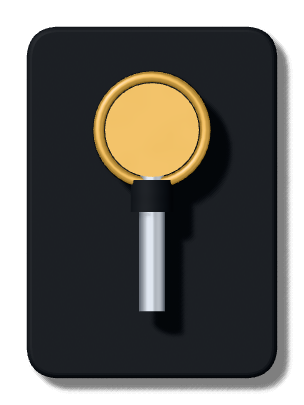
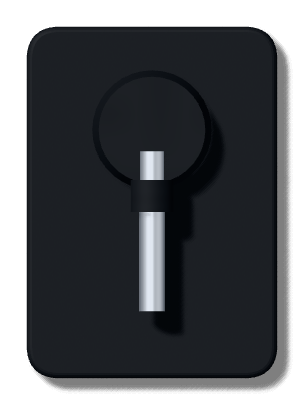
New Game registry: the owner's corrections and the seal
The line under the company colour is gone. The grade's words print only
their deposits part while every tile is surveyed. Pressing Start New Game
carries the die (now its own layer) to the seal circle over 2.5 s and
stamps the form, the impression staying, then the menu fades to the
loading screen over 2 s on the DS2 path; headless runs and tests skip the
sequence. Captures in artifacts/new_game_ds2/ds2_v2.

Changed region(s): [[0.2961, 0.1778, 0.7105, 0.4741], [0.6809, 0.4444, 0.7105, 0.4741]]

diff --git a/price-of-everything-0.1/tools/button_mockup/cluster.html b/price-of-everything-0.1/tools/button_mockup/cluster.html
@@ -8302,19 +8302,24 @@ async function exportLayers() {
         }); }
     });
 
-    // The company seal: the cast iron press, its brass die and chrome lever, without the key (the game sets the
-    // kit's cream key at the lever's end, printed Start New Game).
+    // The company seal: the cast iron press, its anvil and chrome lever, without the key (the game sets the kit's
+    // cream key at the lever's end, printed Start New Game) and without the die, which is its own layer so the game
+    // can carry it to the form's seal circle and bring it down when the game starts.
     if (want('registrypress')) await withSeed(496, async () => {
       const { W, H, M, r } = REG.PRESS, cx = M + W / 2, dz = M + 92, IT = 10 + 12;
       await part('registry_press', W, H, M, () => {
         add(shade(new THREE.Mesh(extrude(rrShape(W, H, r), 10, 6, 5, 4), [iron, iron])), cx, M + H / 2, 0);
         add(shade(new THREE.Mesh(new THREE.CylinderGeometry(50, 56, 30, 36), iron)), cx, dz, IT + 15);
-        add(shade(new THREE.Mesh(new THREE.TorusGeometry(50, 5, 12, 40).rotateX(Math.PI / 2), K.brass)), cx, dz, IT + 31);
-        add(shade(new THREE.Mesh(new THREE.CylinderGeometry(44, 44, 8, 36), K.brass)), cx, dz, IT + 34);
         add(shade(new THREE.Mesh(new THREE.CylinderGeometry(12, 12, 150, 20).rotateX(Math.PI / 2), K.chrome)), cx, dz + 75 + 20, IT + 26);
         add(shade(new THREE.Mesh(new THREE.CylinderGeometry(20, 20, 30, 24).rotateX(Math.PI / 2), iron)), cx, dz + 62, IT + 26);
         add(shade(new THREE.Mesh(new THREE.BoxGeometry(44, 26, 44), iron)), cx, M + 112, IT + 13);
-      }, { top: IT, key: [(W - (PCOL - 22)) / 2, 92 + 150 + 20 + 30 - 42, PCOL - 22, 84], die: [W / 2, 92, 50] });
+      }, { top: IT, key: [(W - (PCOL - 22)) / 2, 92 + 150 + 20 + 30 - 42, PCOL - 22, 84], die: [W / 2, 92, 55] });
+      // The die: the brass ring and the disc it holds, lying on what it stamps.
+      const DR = 55, DM = 20;
+      await part('registry_die', 2 * DR, 2 * DR, DM, () => {
+        add(shade(new THREE.Mesh(new THREE.TorusGeometry(50, 5, 12, 40).rotateX(Math.PI / 2), K.brass)), DM + DR, DM + DR, 5);
+        add(shade(new THREE.Mesh(new THREE.CylinderGeometry(44, 44, 8, 36), K.brass)), DM + DR, DM + DR, 8);
+      }, { radius: DR });
     });
 
     // The hover slip: white plastic, lifted over the leaf, the game prints the building's name and place on it.

diff --git a/price-of-everything-0.1/docs/ds2-theme.md b/price-of-everything-0.1/docs/ds2-theme.md
@@ -99,7 +99,7 @@ python3 tools/button_mockup/export.py 8779        # a private port: 8771 may be 
 | 412–423 | `heading`, `module`, `toggle`, `ldoor`, `modkey`, `sheetw`, `darkplate`, `modicon`, `screen`, `econ`, `diagicon`, `emblem` |
 | 461–463 | the turn briefing: `briefback` (`brief_backing`, the navy steel plate at 540 px, cropped from the top), `briefclip` (`brief_board`, the clipboard's hardboard, and `brief_clip`, its steel clip), `briefwin` (`brief_window_<dark, amber, red, green>`, the annunciator's window glass, a 9-slice, the legend printed by the game) |
 | 464–466 | the construct panel (the construction lot), exported inside the `constructlot` study block so they share its parts: `constructhead` (the crane's head, a bay of its tower, the site's plate, the trolley, the rig of hook, spreader and chains, the navy hoarding), `constructboard` (the site board with its enamel recess and blueprint tile; `guard_build`, the amber cap with a hammer), `constructyard` (the gravel yard, a pallet, the feeder pillar, the land lot's gravel, a slab, a stake, hazard tape); 467 `constructcat` (the white gear key that stands on the cab, the catalogue's notched control plate, a blank enamel site board as a three-slice, a hung recipe tag with its chains); 468 `constructkey` (the cream key in a brass bezel: `construct_key_brass`, `_pressed`, `_latched`, drawn by `cream_key.gd` with `rim = "brass"`); 469 `constructbox` (the catalogue card as a blue corrugated shipping container, cropped to width, and the enamel plate on its left end) |
-| 489–498 | the New Game settings screen as the company registry (`docs/new-game-ds2-plan.md` §9), exported inside the `registrystudy` block (seed 488, the study, unchanged) so they share its materials: `registrydesk` (`registry_desk`, the walnut desk at the panel's size, a 9-slice), `registryhead` (`registry_header`, the navy steel header, a 9-slice; the kit's silver screws, the tile view's nameplate and the Back key go on it), `registryrack` (`registry_felt`, a pigeonhole's floor; `registry_pigeonhole`, the oak frame round one opening with the shadow it throws in, a 9-slice drawn over the files), `registryfile` (`registry_file_<green, amber, red>` and `_pulled`: a blank manila file with its tab in the tier's colour, the navy window and the label, in its hole and lifted out), `registrylid` (`registry_lid`, the dark steel lockbox lid, a 9-slice; `registry_hinge`, `registry_hasp`, `registry_padlock`, `registry_lid_plate`, the blank brass plate the game prints FULL GAME on), `registryblotter` (`registry_blotter`, green leather with a brass stud in each corner; `registry_cover`, the open manila cover; `registry_leaf`, a cream leaf; all 9-slices the game prints on), `registrystamps` (`registry_stamp_rack`, dark steel, a 9-slice; `registry_ink_pad`), `registrypress` (`registry_press`, the cast iron press with its brass die and chrome lever, the key placed by the game), `registryslip` (`registry_slip`, the white plastic hover slip, lifted), `registrykeys` (`key_forward`, `_pressed`: the small cream key with a chevron right) |
+| 489–498 | the New Game settings screen as the company registry (`docs/new-game-ds2-plan.md` §9), exported inside the `registrystudy` block (seed 488, the study, unchanged) so they share its materials: `registrydesk` (`registry_desk`, the walnut desk at the panel's size, a 9-slice), `registryhead` (`registry_header`, the navy steel header, a 9-slice; the kit's silver screws, the tile view's nameplate and the Back key go on it), `registryrack` (`registry_felt`, a pigeonhole's floor; `registry_pigeonhole`, the oak frame round one opening with the shadow it throws in, a 9-slice drawn over the files), `registryfile` (`registry_file_<green, amber, red>` and `_pulled`: a blank manila file with its tab in the tier's colour, the navy window and the label, in its hole and lifted out), `registrylid` (`registry_lid`, the dark steel lockbox lid, a 9-slice; `registry_hinge`, `registry_hasp`, `registry_padlock`, `registry_lid_plate`, the blank brass plate the game prints FULL GAME on), `registryblotter` (`registry_blotter`, green leather with a brass stud in each corner; `registry_cover`, the open manila cover; `registry_leaf`, a cream leaf; all 9-slices the game prints on), `registrystamps` (`registry_stamp_rack`, dark steel, a 9-slice; `registry_ink_pad`), `registrypress` (`registry_press`, the cast iron press with its anvil and chrome lever, the key placed by the game; `registry_die`, the brass die on its own, carried to the seal circle when the game starts), `registryslip` (`registry_slip`, the white plastic hover slip, lifted), `registrykeys` (`key_forward`, `_pressed`: the small cream key with a chevron right) |
 | 472 | `dockpad`: `dock_pad` (the updates pad, brushed silver with a bevel, a 9-slice) and `legend_pad` (the map legends' pad, dark plastic with cut off corners, a 9-slice) |
 | 471 | the updates dock's raised icons: `dockicon` (`dock_icon_pen`, `dock_icon_bell`, each with its `_shadow`, made as the bar's icons are) |
 | 470 | the Politics panel as a courtroom: `court` (`court_backing`, the oak wall in its moulded frame at the panel's size; `court_rail`, the bar of the court, a rail of turned balusters; `court_panel`, a stitched pad of dark leather with a brass stud in each corner, a 9-slice; `court_backing` is drawn as a 9-slice too, so the wall follows the panel's height; `court_plate`, a brass plate, a 9-slice, its print the game's; `court_icon_frame`, a stitched band of tan leather round an icon's cream tile) |

diff --git a/price-of-everything-0.1/docs/new-game-ds2-plan.md b/price-of-everything-0.1/docs/new-game-ds2-plan.md
@@ -168,9 +168,15 @@ The lamp overlay (`scripts/ds2/lamp_overlay.gd`) is on the whole panel, part by 
 
 **Unnamed start tiles** print the nearest named tile with Near in front, as the study did (`place_for`): the Troubled Carmaker's plant on `tile_23_6` prints "Near Long Valley Fields" (the study guessed "Near Capital Port"; the nearest named tile by the grid is the fields one step north). The rule is grid distance over the tile ids, not road distance; a start tile with its own name prints it.
 
-**Captures**: `tools/new_game_ds2_shot.tscn` (windowed, `-- --no-telemetry`, a SubViewport at two pixels a logical pixel) writes `artifacts/new_game_ds2/ds2_v1/`: `01_full_default` (the full game, the recommended start), `02_full_carmaker` (the Troubled Carmaker open, a building pointed at, Hard stamped, a 200 turn charter), `03_demo_lockboxes` (the demo).
+**Captures**: `tools/new_game_ds2_shot.tscn` (windowed, `-- --no-telemetry`, a SubViewport at two pixels a logical pixel) wrote `artifacts/new_game_ds2/ds2_v1/` (the first build; `ds2_v2/` after the corrections below): `01_full_default` (the full game, the recommended start), `02_full_carmaker` (the Troubled Carmaker open, a building pointed at, Hard stamped, a 200 turn charter), `03_demo_lockboxes` (the demo).
 
 **Tests**: `tests/unit/test_new_game_ds2.gd` (tag `new_game`): the flag off keeps the old panel and swaps live; seven files, the recommended one open, the ledger's lines and inks, the building rows, the hover slip, the paint card; the grade stamps and their locks, the charter's keys; `start_requested` with the same overrides as the old panel, `back_requested`; the demo's locks, lid, fixed charter and standing Start key; the era marks; the Near rule.
+
+**The owner's corrections on the first captures** (20 October 2026), each built:
+
+- *Remove the line under the company colour.* The sentence "Every building this company owns is painted in it." is gone; the heading, the paint card, the chosen name and "Press a square to repaint." stay.
+- *Hide the sentence about what is surveyed.* The grade's words print only their deposits part (`grade_words`): the sentence about the survey ("Some tiles are surveyed." and its siblings) is left out while the All tiles surveyed option is on, which it always is today and in the demo every tile is surveyed. The old panel's strings are untouched.
+- *An animation when Start New Game is pressed.* The die is now its own layer (`registry_die`, the press rendered without it, seed 496 re-exported). On the press the key latches with its lamp, inputs are held off and Esc is ignored, and over 2.5 s the die lifts off the press (a little larger, nearer the lamp), slides to the seal circle, comes down on it, holds, rises, slides back and settles on the press; from the moment it comes down the circle carries the seal's impression, embossed into the cream (two rings, THE REGISTRY OF COMPANIES and CARBON AND CAPITAL round it, SEALED across). Then `start_requested` goes out as before and the main menu, on its DS2 path only, fades the screen to black over 2.0 s before the loading screen and the existing `prepare_new_game` pipeline run (`main_menu.gd` `_on_start_requested`, `NEW_GAME_FADE_SECONDS`). Headless runs and tests skip the sequence (the signal goes at once), and `animate` can be switched off. The sequence is a pure function of time (`die_centre_at`, `DIE_SCALE_AT`, `_set_stamp_time`), which is how the shot tool captures its moments and the tests check it. Captures: `artifacts/new_game_ds2/ds2_v2/` (the three states, then `04_stamp_over`, `05_stamp_down`, `06_stamp_after`).
 
 **Left for later** (none of it blocks the review):
 
